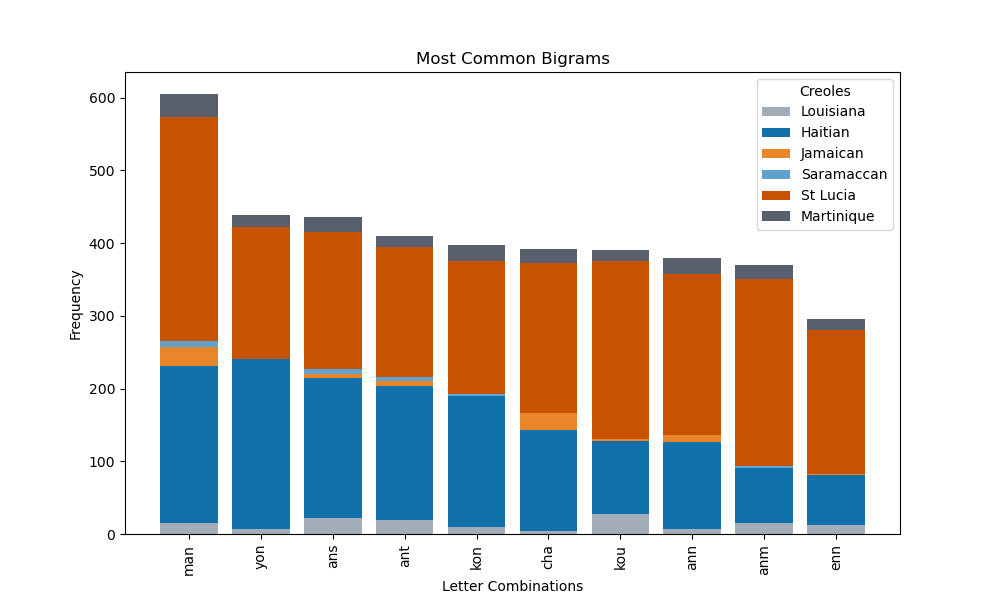
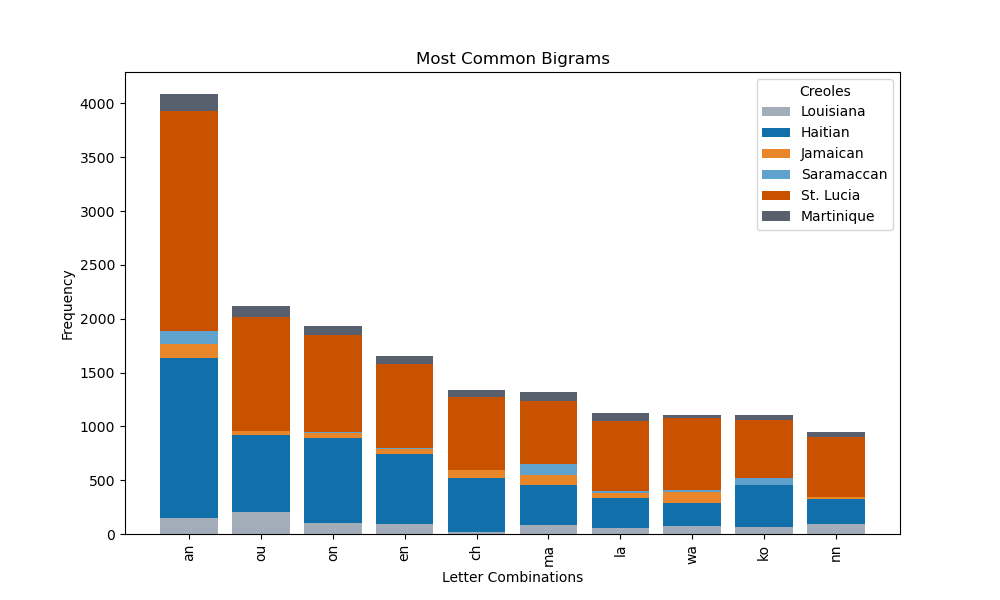
updates the script to fix some formatting errors and made more plots

diff --git a/vis_creation/generate.py b/vis_creation/generate.py
@@ -4,42 +4,44 @@ import numpy as np
 import re
 
 from nltk.util import ngrams
-# from matplotlib.figure import  Figure
 from operator import add
 
-COLOR_KEY = { "louisiana": "#cd7c00",
-            "haitian" : "green",
-            "jamaican": "blue",
-            "surinam": "red"
-}
+COLOR_KEY = { "louisiana": "#a3adb9",
+            "haitian" : "#1170aa",
+            "jamaican": "#e98629",
+            "saramaccan": "#5fa2cd",
+            "st lucia": "#c95200",
+            "martinique": "#58606d"
+            }
 
 TEST_IMG_DIR = "vis_creation\\test_images\\"
 IMG_DIR = "vis_Creation/"
 
-NUM_CREOLES = 4
+CREOLE_NAMES = ["louisiana", "haitian", "jamaican", "saramaccan", "st lucia", "martinique"]
 
-CREOLE_NAMES = ["louisiana", "haitian", "jamaican", "surinam"]
+NUM_CREOLES = len(CREOLE_NAMES)
 
 def get_words(og_list):
     pattern_paren = "\(.*\)"
+    pattern_per = "…?"
     blacklist = ["kreyol pronunciation"]
     word_list = []
-    num_words = 0
 
     for entry in og_list:
         temp = re.sub(pattern_paren, "", entry)
+        temp = re.sub(pattern_per, "", temp)
 
         if "," in temp:
             temp = temp.split(",")
             for word in temp:
                 if word.lower() not in blacklist:
                     word_list.append(word.lower())
-                    num_words += 1
+
         elif temp.lower() not in blacklist:
             word_list.append(temp.lower())
-            num_words += 1
 
-    return word_list, num_words
+
+    return word_list, len(word_list)
 
 """
 Name: create_ngrams
@@ -50,7 +52,7 @@ Return: The dictionary where the key is the bigrams and the values are the numbe
 bigrams come up.
 """
 def create_ngrams(text, n=1):
-    blacklist = [" ", ";", ",", "", "-", "!", "/", "."] # this is a list of characters to ignore for bigrams
+    blacklist = [" ", ";", ",", "", "-", "!", "/", ".", "…"] # this is a list of characters to ignore for bigrams
     frequency_dic = {} # the frequency of the n-grams that occur. The n-grams are the keys and the values are the count
     
     for word in text: # loop through all the words present in the 
@@ -59,7 +61,7 @@ def create_ngrams(text, n=1):
         temp = re.sub(r"\(.*\)", "", word)
         letters = list(temp)
         tokens = [token.lower() for token in letters if token not in blacklist]
-        
+
         grams = list(ngrams(tokens, n))
         for gram in grams:
             if gram in frequency_dic.keys():
@@ -84,7 +86,8 @@ Return: None
 def plot_ngrams(data_dict, creole_name, graph_color, n):
     # sort the dictionary so the ngrams are in order by letter combination
     sorted_dic = sorted(data_dict.items(), key=lambda x:x[1], reverse=True)
-    labels = list(map(str, [item[0] for item in sorted_dic])) # get the ngram names
+    # labels = list(map(str, [item[0] for item in sorted_dic])) # get the ngram names
+    labels = ["".join(item[0]) for item in sorted_dic]
     combo_freq = [item[1] for item in sorted_dic] # get the frequency data
 
     # get the 10 highest and 10 lowest ngrams
@@ -114,8 +117,11 @@ def plot_ngrams(data_dict, creole_name, graph_color, n):
         title2 = creole_name + " top 10 least common " + str(n) + "-grams"
         file_name = creole_name + "_" + str(n) + "gram_frequency_graphs.png"
     
-    # print(bottom_10_labels)
-    
+    print(title2)
+    print(bottom_10_labels)
+    print(title1)
+    print(top_10_labels)
+
     # make the plot with two graphs on it
     f, (ax1, ax2) = plt.subplots(1, 2, sharey=True) # make the plot with two graphs on it
     f.set(figheight=120, figwidth=80)
@@ -143,10 +149,14 @@ def plot_ngrams(data_dict, creole_name, graph_color, n):
     plt.show()
     f.savefig(TEST_IMG_DIR+file_name)
 
-def plot_count_pie(total_list, labels_list):
-    pie_colors = [COLOR_KEY[name] for name in labels_list]
-    plt.pie(total_list, labels=labels_list, colors=pie_colors)
+def plot_count_pie(total_list, labels_raw=CREOLE_NAMES):
+    # total = sum(total_list)
+    labels_list = [word.title().replace(" ", ". ") for word in labels_raw]
+    pie_colors = [COLOR_KEY[name] for name in labels_raw]
+    
+    _, _, autotexts = plt.pie(list(total_list), labels=labels_list, colors=pie_colors, autopct=lambda x: str(round(x, 3)) + "%")
     plt.title("Distribution of Creole Words")
+    plt.setp(autotexts, size = 8)
     plt.show() 
     plt.savefig(TEST_IMG_DIR+"creole_pie_plot.png")
 
@@ -178,17 +188,43 @@ def plot_stacked_bars(total, dist, n, include_haitian=True, creoles=CREOLE_NAMES
             if len(vals[val]) != count:
                 vals[val].append(0)
 
+    title = ""
+    if n == 1:
+        title = "Most Common Unigrams"
+        file_name = "most_common_unigrams.png"
+    elif n == 2:
+        title = "Most Common Bigrams"
+        file_name = "most_common_bigrams.png"
+    elif n == 3:
+        title1 = "Most Common Trigrams"
+        file_name = "most_common_trigrams.png"
+    else:
+        title = "Most Common " + str(n) + "-grams"
+        file_name = "most_frequent" + str(n) + "grams.png"
+
             
-    labels = list(map(str, [item[0] for item in sorted_dic])) # get the ngram names
-    
+    # combos = list(map(str, [item[0] for item in sorted_dic])) # get the ngram names
+    labels = ["".join(item[0]) for item in sorted_dic]
+    print(labels)
     # plot the stacks
+    f = plt.figure()
+    f.set_figwidth(10)
+    f.set_figheight(6)
+
     prev = [0] * 10
     for key in vals.keys():
         plt.bar(labels, vals[key], bottom=prev, color=COLOR_KEY[key])
         prev = list(map(add, prev, vals[key]))
 
-    plt.legend(vals.keys())
+    plt.legend([word.title().replace(" ", ". ") for word in vals.keys()], title="Creoles")
+    plt.ylabel("Frequency")
+    plt.xlabel("Letter Combinations")
+    plt.title(title)
+    plt.tick_params("x", labelrotation=90)
+    plt.savefig(TEST_IMG_DIR+file_name)
     plt.show()
+
+# def get_common_freq()
 
 if __name__ == '__main__':
     # creaoles = ["louisiana", "haitian", "jamaican", "surinam"]
@@ -201,30 +237,40 @@ if __name__ == '__main__':
     jamaica_df = pd.read_csv("merging\Jamaican Creole.csv", usecols=["Words"])
     louisiana_df = pd.read_csv("merging\louisiana_creole_dictionary.csv", usecols=["creole_word"])
     surinam_df = pd.read_csv("merging\suriname.csv", usecols=["Creole_word"])
-
+    lucia_df = pd.read_csv("merging\stLucia.csv", usecols=["Creole_word"])
+    mart_df = pd.read_csv("merging\martinique.csv", usecols=["Creole_word"])
+    
     # drop any NaN values from the dataframe
     louisiana_df.dropna(inplace=True)
     haitian_df.dropna(inplace=True)
     jamaica_df.dropna(inplace=True)
     surinam_df.dropna(inplace=True)
+    lucia_df.dropna(inplace=True)
+    mart_df.dropna(inplace=True)
    
     # get the creole words from each dataframe
     words_col_louisiana = louisiana_df.loc[:, "creole_word"].tolist()
     words_col_haitian = haitian_df.loc[:, "creole_word"].tolist()
     words_col_jamaican = jamaica_df.loc[:, "Words"].tolist()
     words_col_surinam = surinam_df.loc[:, "Creole_word"].tolist()
+    words_col_lucia = lucia_df.loc[:, "Creole_word"].tolist()
+    words_col_mart = mart_df.loc[:, "Creole_word"].tolist()
 
     words_louisiana, totals["louisiana"] = get_words(words_col_louisiana)
     words_haitian, totals["haitian"] = get_words(words_col_haitian)
     words_jamaican, totals["jamaican"] = get_words(words_col_jamaican)
-    words_surinam, totals["surinam"] = get_words(words_col_surinam)
-    
-    # get the bigram data
-    n = 3
+    words_surinam, totals["saramaccan"] = get_words(words_col_surinam)
+    words_lucia, totals["st lucia"] = get_words(words_col_lucia)
+    words_mart, totals["martinique"] = get_words(words_col_mart)
+    print("lec",len(words_louisiana))
+    # get the n-gram data
+    n = 2
     louisiana_bigrams = create_ngrams(words_louisiana[:], n) 
     haitian_bigrams = create_ngrams(words_haitian[:], n) 
     jamaican_bigrams = create_ngrams(words_jamaican[:], n) 
     surinam_bigrams = create_ngrams(words_surinam[:], n) 
+    lucia_bigrams = create_ngrams(words_lucia[:], n) 
+    mart_bigrams = create_ngrams(words_mart[:], n) 
 
     # print("Louisiana Bigrams")
     # print(louisiana_bigrams)
@@ -233,8 +279,9 @@ if __name__ == '__main__':
     plot_ngrams(louisiana_bigrams, "Louisiana Creole", COLOR_KEY["louisiana"], n)
     plot_ngrams(haitian_bigrams, "Haitian Creole", COLOR_KEY["haitian"], n)
     plot_ngrams(jamaican_bigrams, "Jamaican Creole", COLOR_KEY["jamaican"], n)
-    plot_ngrams(surinam_bigrams, "Surinam Creole", COLOR_KEY["surinam"], n)
-
+    plot_ngrams(surinam_bigrams, "Saramaccan Creole", COLOR_KEY["saramaccan"], n)
+    plot_ngrams(lucia_bigrams, "St. Lucia Creole", COLOR_KEY["st lucia"], n)
+    plot_ngrams(mart_bigrams, "Martinique Creole", COLOR_KEY["martinique"], n)
 
     cum_freq = {}
     freq_dist = {}
@@ -251,16 +298,28 @@ if __name__ == '__main__':
         cum_freq[key] = cum_freq.get(key, 0) + haitian_bigrams[key]
 
     for key in list(jamaican_bigrams.keys()):
-        i = key
+        # i = key
         freq_dist[key] = freq_dist.get(key, {})
         freq_dist[key]["jamaican"] = jamaican_bigrams[key]
         cum_freq[key] = cum_freq.get(key, 0) + jamaican_bigrams[key]
 
     for key in list(surinam_bigrams.keys()):
-        i = key
+        # i = key
         freq_dist[key] = freq_dist.get(key, {})
-        freq_dist[key]["surinam"] = surinam_bigrams[key]
+        freq_dist[key]["saramaccan"] = surinam_bigrams[key]
         cum_freq[key] = cum_freq.get(key, 0) + surinam_bigrams[key]
 
-    plot_stacked_bars(cum_freq, freq_dist, 2)
+    for key in list(lucia_bigrams.keys()):
+        # i = key
+        freq_dist[key] = freq_dist.get(key, {})
+        freq_dist[key]["st lucia"] = lucia_bigrams[key]
+        cum_freq[key] = cum_freq.get(key, 0) + lucia_bigrams[key]
+
+    for key in list(mart_bigrams.keys()):
+        # i = key
+        freq_dist[key] = freq_dist.get(key, {})
+        freq_dist[key]["martinique"] = mart_bigrams[key]
+        cum_freq[key] = cum_freq.get(key, 0) + mart_bigrams[key]
+
+    plot_stacked_bars(cum_freq, freq_dist, n)
     plot_count_pie(totals.values(), CREOLE_NAMES)
